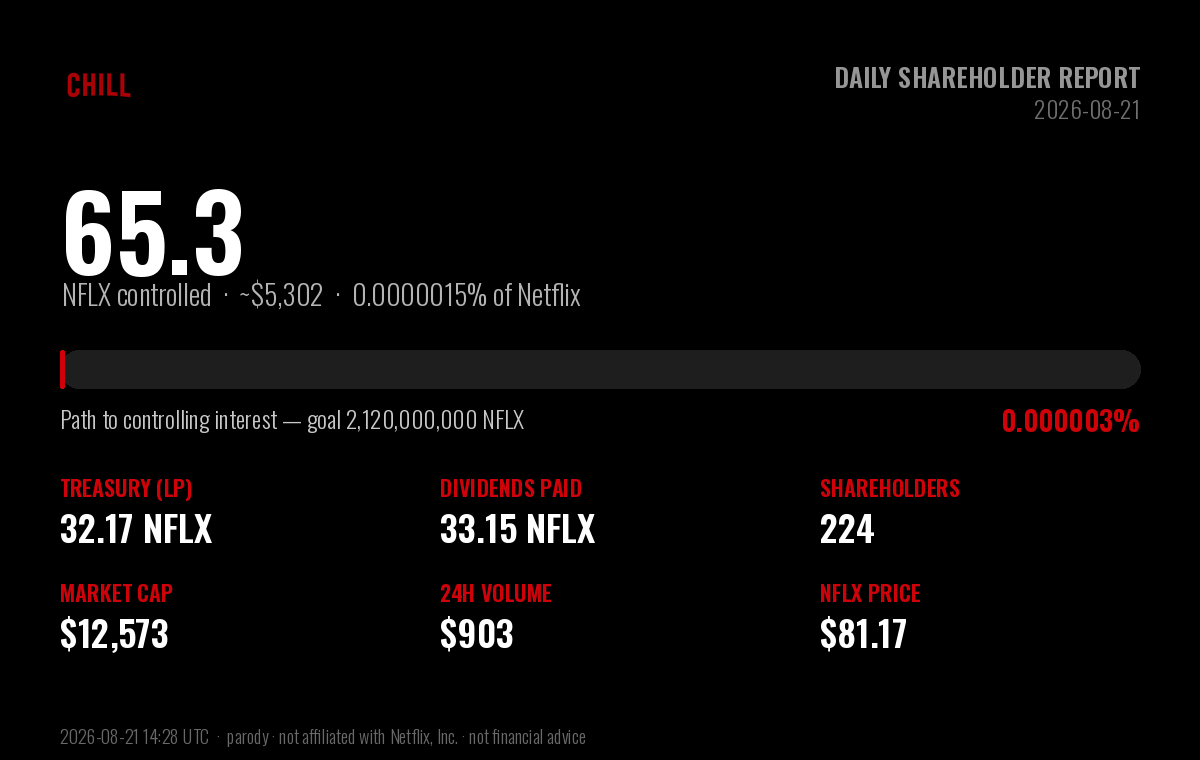
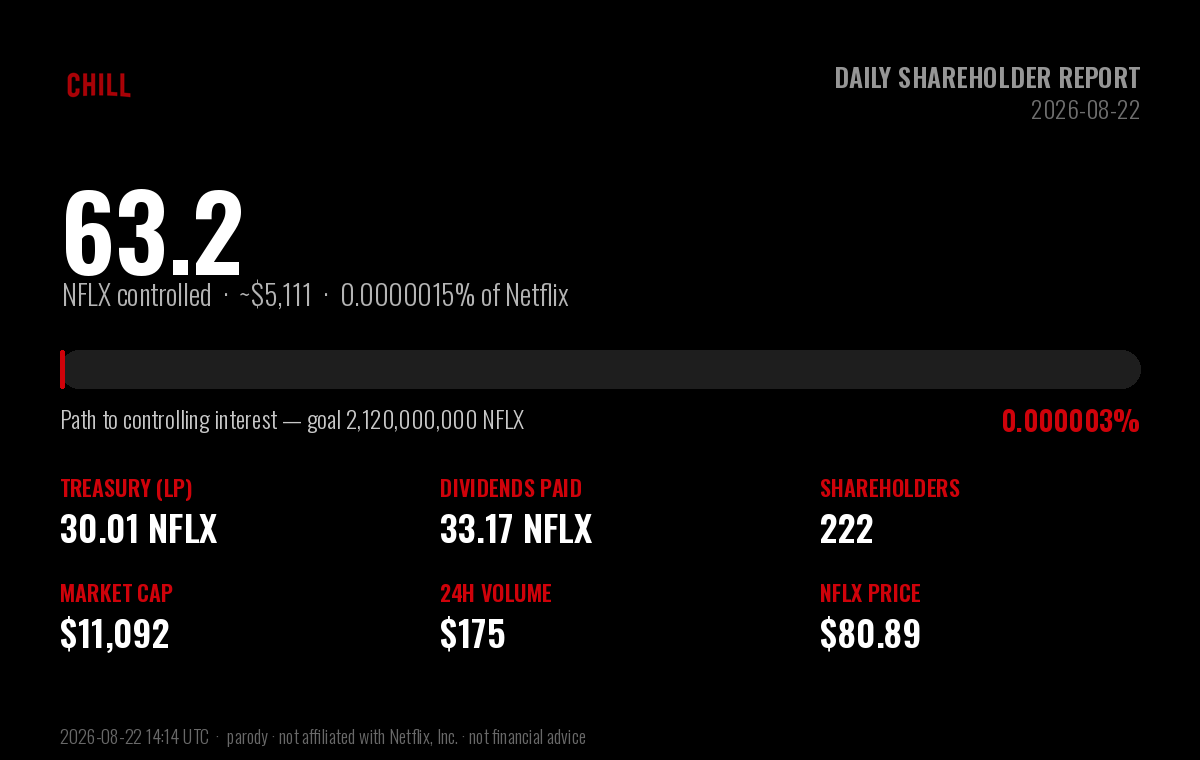
chore: daily $CHILL shareholder report (2026-08-22)

diff --git a/daily-holder-report/README.md b/daily-holder-report/README.md
@@ -1,6 +1,6 @@
 # $CHILL — Daily Shareholder Report
 
-### Netflix and Chill · Report to Shareholders · 2026-08-21
+### Netflix and Chill · Report to Shareholders · 2026-08-22
 
 > **Corporate objective:** acquire a controlling interest in Netflix (NFLX).
 > Netflix has **4,220,000,000** shares outstanding; a majority
@@ -13,53 +13,53 @@
 
 | Metric | Value |
 |---|---|
-| **NFLX under $CHILL control** | **65.32 NFLX** (~$5,302) |
-| Stake in Netflix | 0.000001548% of shares outstanding |
-| Progress to controlling interest | 0.0000031% of 2,120,000,000 |
-| Shares remaining to majority | 2,119,999,935 NFLX |
+| **NFLX under $CHILL control** | **63.18 NFLX** (~$5,111) |
+| Stake in Netflix | 0.000001497% of shares outstanding |
+| Progress to controlling interest | 0.0000030% of 2,120,000,000 |
+| Shares remaining to majority | 2,119,999,937 NFLX |
 
 ## Balance sheet — NFLX holdings
 
 | Holding | NFLX | USD |
 |---|---|---|
-| Treasury (protocol-owned liquidity) | 32.17 | $2,611 |
-| Dividends distributed to shareholders | 33.15 | $2,691 |
-| **Total NFLX controlled** | **65.32** | **$5,302** |
+| Treasury (protocol-owned liquidity) | 30.01 | $2,427 |
+| Dividends distributed to shareholders | 33.17 | $2,684 |
+| **Total NFLX controlled** | **63.18** | **$5,111** |
 
 ## Last 24 hours
 
 | Metric | Value |
 |---|---|
-| Trading volume | 11.13 NFLX (~$903) |
-| Net NFLX accumulated | -3.41 NFLX |
-| Dividends generated | 0.1113 NFLX |
-| Transactions | 11 (3 buys / 8 sells) |
-| $CHILL price change | -0.9% |
+| Trading volume | 2.16 NFLX (~$175) |
+| Net NFLX accumulated | -2.16 NFLX |
+| Dividends generated | 0.0216 NFLX |
+| Transactions | 3 (0 buys / 3 sells) |
+| $CHILL price change | -1.0% |
 
 ## Shareholder & market data
 
 | Metric | Value |
 |---|---|
-| Shareholders of record | 224 |
+| Shareholders of record | 222 |
 | Lifetime unique participants | 925 |
 | Shares outstanding ($CHILL) | 1,000,000,000 |
-| Market capitalization | $12,573 |
-| $CHILL price | $0.00001257 |
-| NFLX price | $81.17 |
-| Lifetime volume | 3,315.25 NFLX (~$269,093) |
-| Lifetime transactions | 4,493 (2,554 buys / 1,939 sells) |
-| Days since IPO (launch) | 32 |
+| Market capitalization | $11,092 |
+| $CHILL price | $0.00001109 |
+| NFLX price | $80.89 |
+| Lifetime volume | 3,317.41 NFLX (~$268,352) |
+| Lifetime transactions | 4,496 (2,554 buys / 1,942 sells) |
+| Days since IPO (launch) | 33 |
 
 ## Per-share metrics
 
 | Metric | Value |
 |---|---|
-| NFLX backing per 1M $CHILL | 0.065319 NFLX |
-| Dividends per 1M $CHILL | 0.033153 NFLX |
+| NFLX backing per 1M $CHILL | 0.063180 NFLX |
+| Dividends per 1M $CHILL | 0.033174 NFLX |
 
 ---
 
-*Report generated 2026-08-21 14:28 UTC · block 42,353,468 · data via the Sentry-Robinhood
+*Report generated 2026-08-22 14:14 UTC · block 43,206,811 · data via the Sentry-Robinhood
 subgraph and Robinhood Chain explorer.*
 
 **Disclaimer:** $CHILL is an independent, community-driven **parody** token. It is
